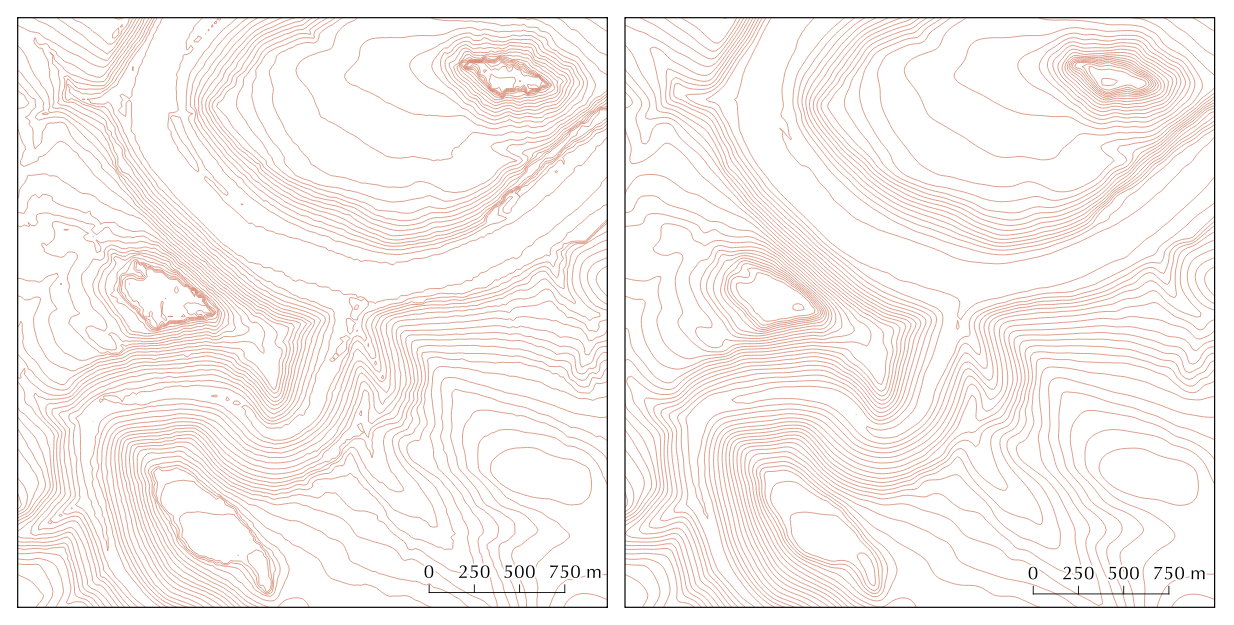
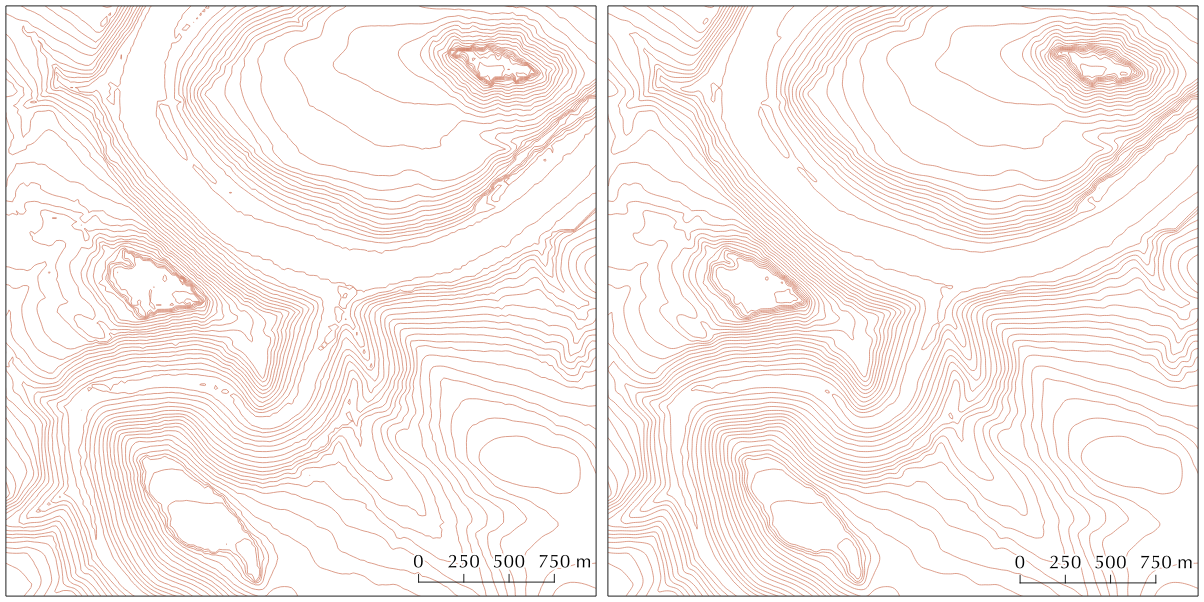
Add more kernels

diff --git a/create_contours.py b/create_contours.py
@@ -39,6 +39,31 @@ def smoothTerrain(inputTerrain, kernelSize):
     file.write(data)
     file.close()
 
+    # Build VRT for smoothed DEM
+    os.system("gdalbuildvrt " + prefix + "_dem_blur_5x5.vrt " + prefix + "_dem.tif")
+
+    file = open(prefix + "_dem_blur_5x5.vrt", "rt")
+    data = file.read()
+    data = data.replace("ComplexSource", "KernelFilteredSource")
+    data = data.replace("<NODATA>-32768</NODATA>", '<NODATA>-32768</NODATA><Kernel normalized="1"><Size>5</Size><Coefs>0.003765 0.015019 0.023792 0.015019 0.003765 0.015019 0.059912 0.094907 0.059912 0.015019 0.023792 0.094907 0.150342 0.094907 0.023792 0.015019 0.059912 0.094907 0.059912 0.015019 0.003765 0.015019 0.023792 0.015019 0.003765</Coefs></Kernel>')
+    file.close()
+
+    file = open(prefix + "_dem_blur_5x5.vrt", "wt")
+    file.write(data)
+    file.close()
+
+    # Build VRT for more smoothed DEM
+    os.system("gdalbuildvrt " + prefix + "_dem_blur_7x7.vrt " + prefix + "_dem.tif")
+
+    file = open(prefix + "_dem_blur_7x7.vrt", "rt")
+    data = file.read()
+    data = data.replace("ComplexSource", "KernelFilteredSource")
+    data = data.replace("<NODATA>-32768</NODATA>", '<NODATA>-32768</NODATA><Kernel normalized="1"><Size>7</Size><Coefs>0.000036 0.000363 0.001446 0.002291 0.001446 0.000363 0.000036 0.000363 0.003676 0.014662 0.023226 0.014662 0.003676 0.000363 0.001446 0.014662 0.058488 0.092651 0.058488 0.014662 0.001446 0.002291 0.023226 0.092651 0.146768 0.092651 0.023226 0.002291 0.001446 0.014662 0.058488 0.092651 0.058488 0.014662 0.001446 0.000363 0.003676 0.014662 0.023226 0.014662 0.003676 0.000363 0.000036 0.000363 0.001446 0.002291 0.001446 0.000363 0.000036</Coefs></Kernel>')
+    file.close()
+
+    file = open(prefix + "_dem_blur_7x7.vrt", "wt")
+    file.write(data)
+    file.close()
 
     # Build VRT for more stronger smoothed DEM
     os.system("gdalbuildvrt " + prefix + "_dem_blur_9x9.vrt " + prefix + "_dem.tif")
@@ -93,8 +118,16 @@ def smoothTerrain(inputTerrain, kernelSize):
 
     # Combine it together
     print("Build better DEM for contour lines...")
+
+    print(str(smooth))
+
+
     if (smooth == 13):
         os.system('gdal_calc.py -A ' + prefix + '_tpi_norm.tif -B ' + prefix + '_dem_blur_3x3.vrt -C ' + prefix + '_dem_blur_13x13.vrt --outfile="smooth_' + inputDEM + '" --overwrite --calc="A*B+(1-A)*C"')
+    if (smooth == 7):
+        os.system('gdal_calc.py -A ' + prefix + '_tpi_norm.tif -B ' + prefix + '_dem_blur_3x3.vrt -C ' + prefix + '_dem_blur_7x7.vrt --outfile="smooth_' + inputDEM + '" --overwrite --calc="A*B+(1-A)*C"')   
+    if (smooth == 5):
+        os.system('gdal_calc.py -A ' + prefix + '_tpi_norm.tif -B ' + prefix + '_dem_blur_3x3.vrt -C ' + prefix + '_dem_blur_5x5.vrt --outfile="smooth_' + inputDEM + '" --overwrite --calc="A*B+(1-A)*C"')    
     if (smooth == 3):
         os.system('gdal_calc.py -A ' + prefix + '_tpi_norm.tif -B ' + prefix + '_dem_blur_3x3.vrt -C ' + prefix + '_dem_blur_3x3.vrt --outfile="smooth_' + inputDEM + '" --overwrite --calc="A*B+(1-A)*C"')   
     else:
@@ -104,6 +137,8 @@ def smoothTerrain(inputTerrain, kernelSize):
     os.remove(prefix + "_dem.tif")
     os.remove(prefix + "_dem_tpi.tif")
     os.remove(prefix + "_dem_blur_3x3.vrt")
+    os.remove(prefix + "_dem_blur_5x5.vrt")
+    os.remove(prefix + "_dem_blur_7x7.vrt")
     os.remove(prefix + "_dem_blur_9x9.vrt")
     os.remove(prefix + "_dem_blur_13x13.vrt")
     os.remove(prefix + "_tpi_pos.tif")
@@ -138,7 +173,7 @@ def main(argv):
             print("\t--outputFile=(vectorFilename)* write the name of the outputfile for the contours. The format is guessed form the extention")
             print("\t--intervall=(float)* intervall between the contour lines.")
             print("\t--pixelSize=(float)* pixel size of the DEM, or a greater number. Used for reampling and should correspond with the aimed map scale")
-            print("\t--gaussainBlur={3, 9, 13} kernel size for smoothing flat areas. Default 9.")
+            print("\t--gaussainBlur={3, 5, 7, 9, 13} kernel size for smoothing flat areas. Default 9.")
             print("\t--help print this hopefully hepfully text.")
             print("\t*necessary for execution.")
             print("Mathias Gröbe 2020")
@@ -172,7 +207,7 @@ def main(argv):
                 os.system("gdal_contour -inodata -snodata -32768 -a ele "  + smooth_dem + " " + outputFile + " -i " + str(interval))
             except:
                 if os.path.isfile(outputFile):
-                    print("Can not delete old file! Is is open in a GIS?")
+                    print("Can not delete old file! Is it open in a GIS?")
                 else:
                     print("Create " + outputFile + ".")
                     os.system("gdal_contour -inodata -snodata -32768 -a ele "  + smooth_dem + " " + outputFile + " -i " + str(interval))
